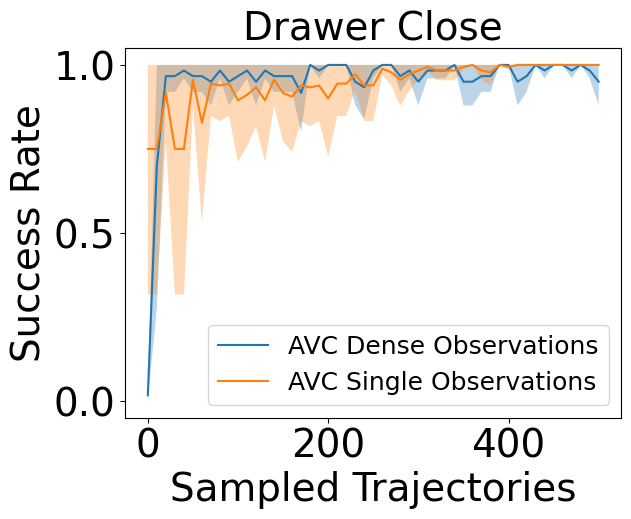
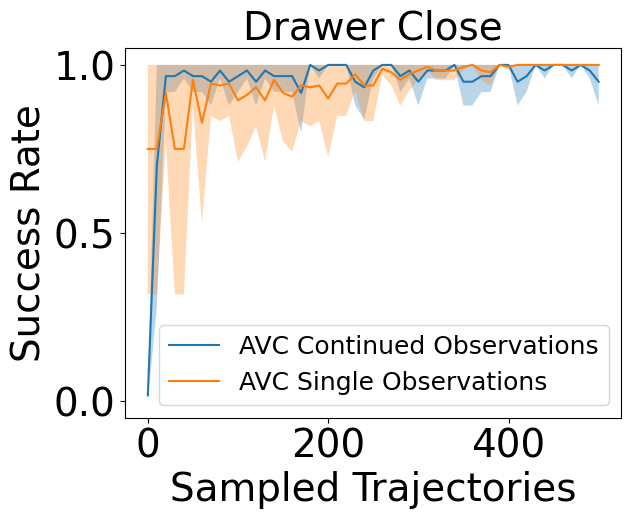
final_1

Changed region(s): [[0.271, 0.7091, 0.9334, 0.7707], [0.271, 0.6474, 0.7528, 0.6782], [0.7829, 0.6474, 0.9334, 0.6782]]

diff --git a/chapters/Experiments.tex b/chapters/Experiments.tex
@@ -242,7 +242,7 @@ Following the insights presented in this section, we will use the actor planner 
     \caption{15 expert demonstrations.}
   \end{subfigure}
   \caption{
-    All baselines were pretrained using behavioral cloning with the given number of expert demonstrations. 
+    \textbf{Single Observation}. All baselines were pretrained using behavioral cloning with the given number of expert demonstrations. 
     The horizontal axis shows the number of sampled environment episodes, each with 100 steps. 
     One initial observation and, for \ac{rl}, a sparse reward signal at the end of each episode was provided. 
     The shaded area indicates the standard deviations from four runs per experiment. \ac{ppo} and \ac{tqc} use \ac{gail} to 
@@ -311,7 +311,7 @@ are shown in Figure \ref{fig:guided_ref}.
     \end{subfigure}
     \begin{subfigure}[t]{0.32\textwidth}
       \includegraphics[width=\textwidth]{images/0/Drawer Close.png}
-      \caption{Zero expert demonstrations.}
+      \caption{No demonstrations.}
       \label{fig:drawerclose}
     \end{subfigure}
     \medskip
@@ -325,7 +325,7 @@ are shown in Figure \ref{fig:guided_ref}.
       \caption{Comparison between pure \ac{il} and \ac{rl}.}
     \end{subfigure}
     \caption{
-    All baselines were pretrained using behavioral cloning with the given number of expert demonstrations, where demonstrations were provided. 
+    \textbf{Single Observation}. All baselines were pretrained using behavioral cloning with the given number of expert demonstrations, where demonstrations were provided. 
     The x-axis shows the number of sampled environment episodes, each with 100 steps. On the bottom row, 
     the x-axis displays equal amount of compute for the pure \ac{il} experiment and the \ac{rl} experiment. 
     One initial observation and, for \ac{rl}, a sparse reward signal at the end of each episode was provided. 
@@ -346,7 +346,7 @@ First we wanted to rule out that the performance difference comes mainly from ou
 we pretrained them using behavioral cloning. We expected that after pretraining, at least one successful trajectory would be sampled in the training phase, thus
 helping to overcome the initial search problem. We find that all algorithms perform significantly above $0\%$ success rate, so we conclude that all algorithms had
 sufficient guidance to find further successful trajectories. To further rule out that our methodology gives an unequal advantage to our algorithm, we tested all algorithms with 
-zero expert demonstrations on the 
+no expert demonstrations on the 
 Drawer Close environment. We find, that random trajectories can already solve the environment with about $20\%$ success rate, so no expert guidance is needed to learn a feasible behavior.
 The results are shown in Figure \ref{fig:drawerclose}.
 
@@ -414,7 +414,7 @@ we use the same setup as described in previous sections. The results are shown i
     \caption{No expert demonstrations.}
   \end{subfigure}
 
-  \caption{All baselines were pretrained using behavioral cloning with the given number of expert demonstrations. 
+  \caption{\textbf{Continued Observation}. All baselines were pretrained using behavioral cloning with the given number of expert demonstrations. 
     The x-axis shows the number of sampled environment episodes, each with 100 steps. 
     Continued observations and a sparse reward signal at the end of each episode was provided. 
     The shaded area indicates the standard deviations from three runs per experiment.}
@@ -478,7 +478,7 @@ The results are shown in Figure \ref{fig:dense_vs_single}.
   \hfill
   \begin{subfigure}[t]{0.32\textwidth}
     \includegraphics[width=\textwidth]{images/dense_vs_sparse_0/Drawer Close.png}
-    \caption{Zero expert demonstrations.}
+    \caption{No expert demonstrations.}
   \end{subfigure}
   \caption{Comparison of \ac{avc} in single observation and \ac{coavc} in continued observation \ac{mdp} environments. Each experiment was repeated three times with 30 evaluation episodes per data point.
   }
